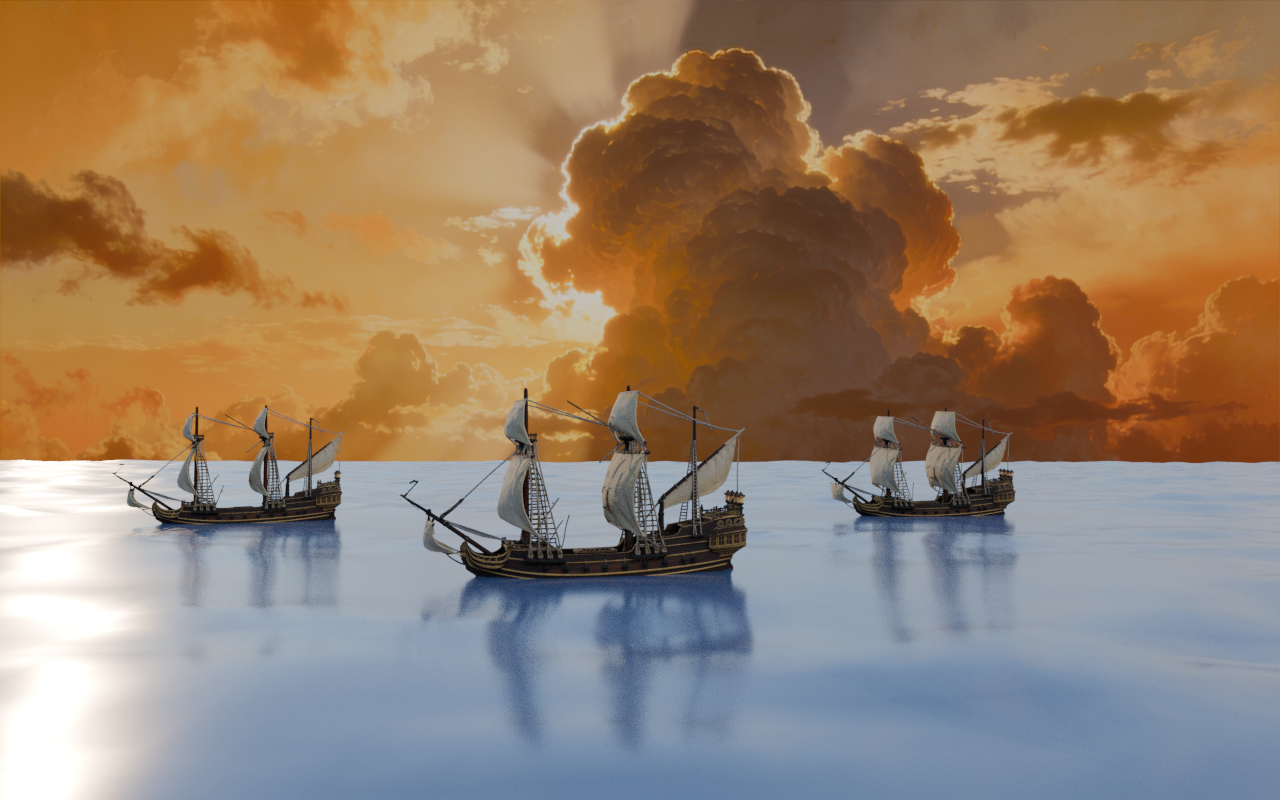
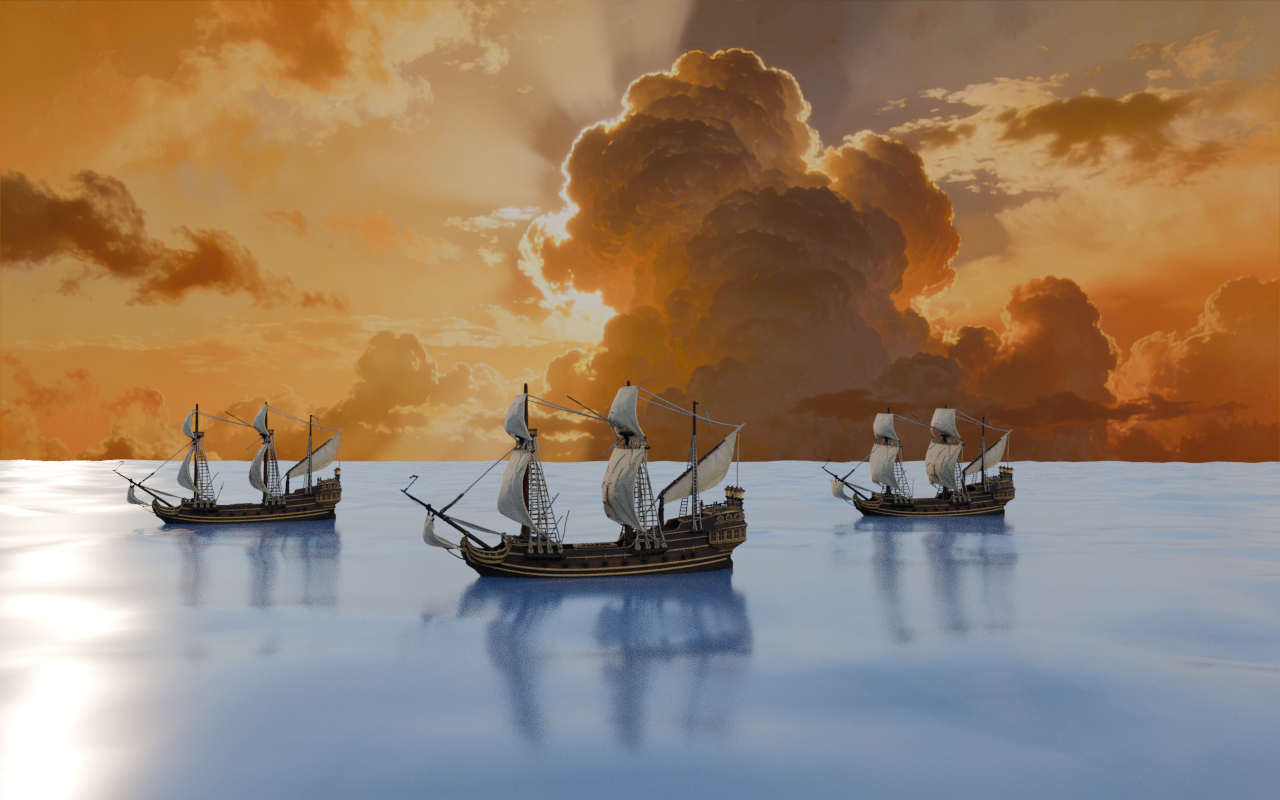
Flotación CALIBRADA (tira de 4 alturas + inspección al 100%)
Se acabó el a-ojo: calibración de perfil sobre agua plana → la nao IA
a escala 11 flota con origen = nivel + 2.65 (2.55 en tormenta). Actos
II y IV re-renderizados y verificados con recortes al 100% (las
miniaturas engañaban: por eso di por buena dos veces una flota hundida).

diff --git a/3d/build_actos.py b/3d/build_actos.py
@@ -140,7 +140,7 @@ for nombre, (px, py), rz, esc in (("NaoLider", (0, 10), 196, 0),
                                   ("NaoAla1", (-19, 30), 203, 2),
                                   ("NaoAla2", (16, 36), 190, -2)):
     nivel = aplana(m2, px, py)
-    nao(nombre, (px, py, nivel + 2.5), rz, escora=esc)
+    nao(nombre, (px, py, nivel + 2.65), rz, escora=esc)
 mundo("matte_atardecer.jpg", 1.0, (1.0, 0.66, 0.34), 3.2,
       (math.radians(75), 0, math.radians(-150)))
 render("acto2_flota.png", (3, -24, 4.2), (-1, 30, 1.0), lens=31, mist=(25, 110))
@@ -150,7 +150,7 @@ print("ACTO2_OK")
 escena_limpia()
 m4 = mar(2.6, (0.025, 0.04, 0.07), 0.32)
 nivel4 = aplana(m4, -2, 14, rx=12.0, ry=5.5)
-nao("NaoTormenta", (-2, 14, nivel4 + 2.35), 188, escora=6)
+nao("NaoTormenta", (-2, 14, nivel4 + 2.55), 188, escora=6)
 mundo("matte_tormenta.jpg", 0.22, (0.6, 0.68, 0.9), 1.1,
       (math.radians(70), 0, math.radians(-120)))
 # el haz dorado del matte toca el agua tras la nao
